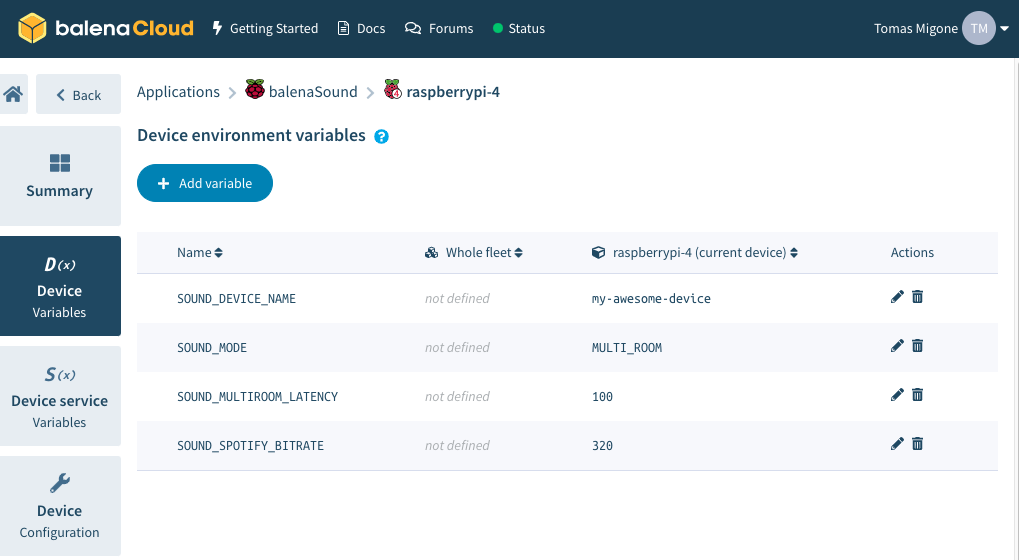
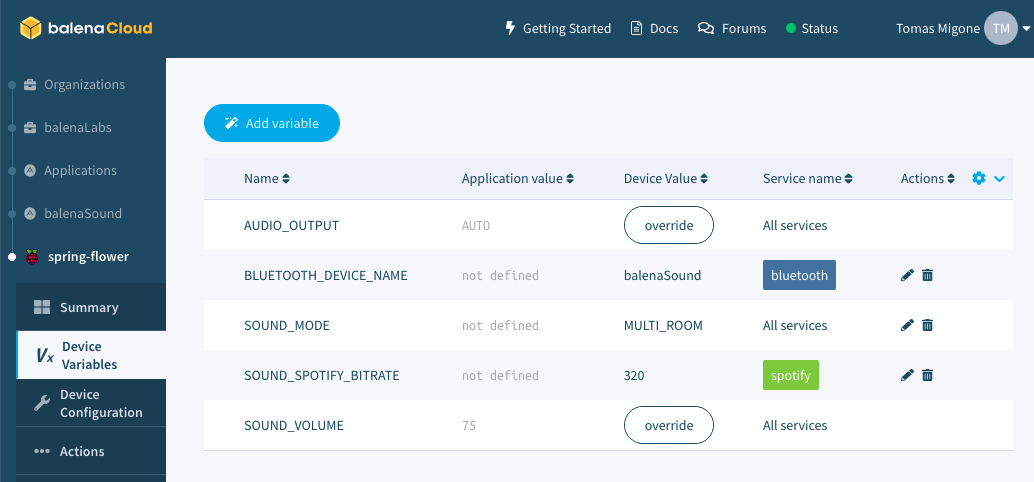
renamathon: rename application to fleet/app
Change-type: patch

diff --git a/ARCHITECTURE.md b/ARCHITECTURE.md
@@ -1,6 +1,6 @@
 # Architecture
 
-Community contributions have been a staple of this open source project since its inception. However, as balenaSound grew in features it also grew in terms of complexity. It's currently a multi-container application with four core services and as many plugin services. This documentation section aims to provide an overview of balenaSound's architecture, with the intention of lowering the barrier to entry for folks out there wanting to contribute. If you are interested in contributing and after reading this guide you still have questions please [reach out](../docs/support#contact-us) and we'll gladly help.
+Community contributions have been a staple of this open source project since its inception. However, as balenaSound grew in features it also grew in terms of complexity. It's currently a multi-container app with four core services and as many plugin services. This documentation section aims to provide an overview of balenaSound's architecture, with the intention of lowering the barrier to entry for folks out there wanting to contribute. If you are interested in contributing and after reading this guide you still have questions please [reach out](../docs/support#contact-us) and we'll gladly help.
 
 ## Overview
 
@@ -9,20 +9,21 @@ Community contributions have been a staple of this open source project since its
 balenaSound services can be divided in three groups:
 - Sound core: `sound-supervisor` and `audio`. 
 - Multiroom: `multiroom-server` and `multiroom-client`
-- Plugins: `spotify`, `airplay`, `bluetooth`, `upnp`
+- Plugins: `spotify`, `airplay`, `bluetooth`, `upnp`, etc.
 
 ### Sound core
 
 This is the heart of balenaSound as it contains the most important services: `sound-supervisor` and `audio`. 
 
 **audio**
-The `audio` block is a balena block that provides an easy way to work with audio applications in containerized environments such as balenaOS. You can read more about it [here](https://github.com/balenablocks/audio). In a nutshell, the `audio` block is the main "audio router". It connects to all audio sources and sinks and handles audio routing, which will change depending on the mode of operation (multi-room vs standalone), the output interface selected (onboard audio, HDMI, DAC, USB soundcard), etc. The `audio` block allows you to build complex audio applications such as balenaSound without having to deep dive into ALSA or PulseAudio configuration. One of the key features for balenaSound is that it allows us to define input and output audio layers and then do all the complex audio routing without knowing/caring about where the audio is being generated or where it should go to. The `audio routing` section belows covers this process in detail.
+The `audio` block is a [balena block](https://www.balena.io/blog/introducing-balenablocks-jumpstart-your-iot-app-development/) that provides an easy way to work with audio in containerized environments such as balenaOS. You can read more about it [here](https://github.com/balenablocks/audio). In a nutshell, the `audio` block is the main "audio router". It connects to all audio sources and sinks and handles audio routing, which will change depending on the mode of operation (multi-room vs standalone), the output interface selected (onboard audio, HDMI, DAC, USB soundcard), etc. The `audio` block allows you to build complex audio apps such as balenaSound without having to dive deep into ALSA or PulseAudio configuration. One of the key features for balenaSound is that it allows us to define input and output audio layers and then perform all the complex audio routing without knowing/caring about where the audio is being generated or where it should go to. The `audio routing` section belows covers this process in detail.
 
 
 **sound-supervisor**
 The `sound-supervisor`, as its name suggests, is the service that orchestrates all the others. It's not really involved in the audio routing but it does a few key things that enable the other services to be simpler. Here are some of the most important features of the `sound-supervisor`:
+
 - **Multi-room events**: through the use of the [cotejs](https://github.com/dashersw/cote) library and interfacing with the `audio` block, the `sound-supervisor` ensures that all devices on the same local network agree on which is the `master` device. To achieve this, `sound-supervisor` services on different devices exchange event messages constantly.
-- **API**: creates a REST API on port 80. The API allows other services to access the current balenaSound configuration, which allows us to update the configuration dynamically and have services react accordingly. As a general rule of thumb, if we are interested in a service's configuration being able to be dynamically updated, the service should rely on configuration reported by `sound-supervisor` and not on environment variables. At this moment, all of the services support this behaviour but their configuration is mostly static: you set it at startup via environment variables and that's it. However, there are *experimental* endpoints in the API to update configuration values and all of the services support it already. There's even a *secret* UI that allows for some configuration changes at runtime, it's located at `http://<DEVICE_IP>`.
+- **API**: creates a REST API on port 80. The API allows other services to access the current balenaSound configuration, which allows us to update the configuration dynamically and have services react accordingly. As a general rule of thumb, if we are interested in a service's configuration being able to be dynamically updated, the service should rely on configuration reported by `sound-supervisor` and not on environment variables. At this moment, all of the services support this behavior but their configuration is mostly static: you set it at startup via environment variables and that's it. However, there are *experimental* endpoints in the API to update configuration values and all of the services support it already. There's even a *secret* UI that allows for some configuration changes at runtime, it's located at `http://<DEVICE_IP>`.
 
 ### Multi-room
 
@@ -40,8 +41,9 @@ Plugins are the audio sources that generate the audio to be streamed/played (e.g
 
 ## Audio routing
 
-Audio routing is the most cruicial part of balenaSound, and it also changes significantly depending on what the current configuration is with the biggest change being the mode of operation (multi-room vs standalone). There are two services controlling the audio routing:
-- the `audio` block is the key one as it's the one actually routing audio, so we'll zoom into it in sections below.
+Audio routing is the most crucial part of balenaSound, and it also changes significantly depending on what the current configuration is, with the biggest change being the mode of operation (multi-room vs standalone). There are two services controlling audio routing:
+
+- the `audio` block is the key one as it's the one actually routing audio so we'll zoom into it in sections below.
 - `sound-supervisor` on the other hand, is responsible for changing the routing according to what the current mode is. It will modify how sinks are internally connected depending on the mode of operation.
 
 **Note**: audio routing relies mainly on routing PulseAudio sinks. [Here](https://gavv.github.io/articles/pulseaudio-under-the-hood/) is an awesome resource on PulseAudio in case you are not familiar with it.
@@ -65,13 +67,13 @@ Creation and configuration scripts for these virtual sinks are located at `core/
 ### Standalone
 ![](https://raw.githubusercontent.com/balenalabs/balena-sound/master/docs/images/arch-standalone.png)
 
-Standalone mode is easy to understand. You just pipe ` balena-sound.input` to `balena-sound.output` and that's it. Audio coming in from any plugin will find it's way to the selected output. If this was the only mode, we could simplify the setup and use a single sink. Having the two layers however is important for the next mode which is more complicated.
+Standalone mode is easy to understand. You just pipe ` balena-sound.input` to `balena-sound.output` and that's it. Audio coming in from any plugin will find it's way to the selected output. If this was the only mode, we could simplify the setup and use a single sink. Having the two layers however is important for the multiroom mode which is more complicated.
 
 
 ### Multiroom
 ![](https://raw.githubusercontent.com/balenalabs/balena-sound/master/docs/images/arch-multiroom.png)
 
-Multiroom feature relies on `snapcast` to broadcast the audio to multiple devices. Snapcast has two binaries working alonside, server and client.
+Multiroom feature relies on `snapcast` to broadcast the audio to multiple devices. Snapcast has two binaries working alongside: server and client.
 
 Snapcast server can receive audio from an ALSA stream, so we create an additional sink (`snapcast` sink) that routes audio from `balena-sound.input` and configure snapcast to grab the audio from the sink monitor. The server will then use TCP packets to broadcast audio to all clients that are connected to it, wether they run in the same device or others. Note that the audio is "exiting" the `audio` block and no longer under PulseAudio's control.
 
@@ -81,11 +83,11 @@ This setup allows us to decouple the multiroom feature from the `audio` block wh
 
 ## Plugins
 
-As described above, plugins are the services generating the audio to be streamed/played. Plugins are responsible for sending the audio into the `audio` block, particularily into `balena-sound.input` sink. There are two alternatives for how this can be acomplished. A detailed explanation can be found [here](https://github.com/balenablocks/audio#usage), in our case:
+As described above, plugins are the services generating the audio to be streamed/played. Plugins are responsible for sending the audio into the `audio` block, particularly into `balena-sound.input` sink. There are two alternatives for how this can be accomplished. A detailed explanation can be found [here](https://github.com/balenablocks/audio#usage), in our case:
 
 **PulseAudio backend**
 
-Most audio applications support using PulseAudio as an audio backend. This means the application was coded to allow sending audio directly to PulseAudio (and hence the `audio` block). This is usually configurable via a CLI option flag or configuration files. You should check your application's documentation and figure out if this is the case.
+Most audio applications support using PulseAudio as an audio backend. This means they were coded to allow sending audio directly to PulseAudio (and hence the `audio` block). This is usually configurable via a CLI option flag or configuration files. You should check your application's documentation and figure out if this is the case.
 
 If the application supports PulseAudio backend, the only configuration you need is to specify where the PulseAudio server can be located. This can be done by setting the `PULSE_SERVER` environment variable, we recommend doing it in the `Dockerfile`:
 

diff --git a/docs/03-customization.md b/docs/03-customization.md
@@ -1,23 +1,23 @@
 # Customization
 
-Some features of balenaSound can be configured by using environment variables. Depending on how you set them they will apply to all your devices, a specific device or a specific service. Regardless of what you want, they can be set using the balena dashboard:
+Some features of balenaSound can be configured by using variables. Depending on how you set them they will apply to all your devices, a specific device or a specific service. Regardless of what you want, they can be set using the balena dashboard:
 
-| Environment variable type | Scope | Instructions |
+| Variable type | Scope | Instructions |
 | ------ | ------ | ------ |
-| Fleet-wide environment variable | all devices, all services | navigate to dashboard -> your app -> Environment variables |
-| Fleet-wide service variable | all devices, specific service | navigate to dashboard -> your app -> Service variables |
-| Device environment variable | specific device, all services | navigate to dashboard -> your app -> your device -> Device variables |
-| Device service variable | specific device, specific service | navigate to dashboard -> your app -> your device -> Device service variables |
+| Fleet-wide variable | all devices, all services | navigate to dashboard -> your fleet -> `Variables` -> Select `All services` |
+| Fleet-wide service variable | all devices, specific service | navigate to dashboard -> your fleet -> `Variables` -> Select target service |
+| Device variable | specific device, all services | navigate to dashboard -> your fleet -> your device -> `Device variables` -> Select `All services` |
+| Device service variable | specific device, specific service | navigate to dashboard -> your fleet -> your device -> Select `All services` -> Select target service |
 
 ![Setting the device name](https://raw.githubusercontent.com/balenalabs/balena-sound/master/docs/images/env-vars.png)
 
-You can read more about environment variables [here](https://www.balena.io/docs/learn/manage/serv-vars/#fleet-environment-and-service-variables).
+You can read more about variables [here](https://www.balena.io/docs/learn/manage/serv-vars/#fleet-environment-and-service-variables).
 
 ## General
 
-The following environment variables apply to balenaSound in general, modifying its behavior across the board:
+The following variables apply to balenaSound in general, modifying its behavior across the board:
 
-| Environment variable | Description | Options | Default |
+| Variable | Description | Options | Default |
 | ------ | ------ | ------ | ------ |
 | SOUND_MODE | Select which mode of operation a device should use. For a detailed explanation see [here](../docs/usage#modes-of-operation).| `MULTI_ROOM`, `MULTI_ROOM_CLIENT`, `STANDALONE` | `MULTI_ROOM`, except for cases listed [here](../docs/device-support). |
 | SOUND_VOLUME | Output volume level at startup. | 0 - 100, integer value without the `%` symbol. | 75 |
@@ -32,18 +32,18 @@ The following environment variables apply to balenaSound in general, modifying i
 
 These options only have an effect on multi-room behavior:
 
-| Environment variable    | Description                                                                                                                                                | Options                                               | Default |
-| ---                     | ---                                                                                                                                                        | ---                                                   | ---     |
-| SOUND_MULTIROOM_MASTER  | Force multi-room to use the specified IP address as the multi-room `master` device. This can't be changed unless the variable is removed.                  | An IPv4 formatted IP address. Example: `192.168.1.10` | ---     |
-| SOUND_MULTIROOM_LATENCY | Set multi-room client latency. Usually used to compensate for latency that speaker hardware might introduce (some Hi-Fi systems add a noticeable latency). | Time in milliseconds. Example: `300`                  | ---     |
-| SOUND_MULTIROOM_POLL_INTERVAL | Set how often multi-room devices sync up across the fleet. | Time in seconds. Example: `120`                                                    | `60` |
-| SOUND_MULTIROOM_DISALLOW_UPDATES | Prevent a device to update it's multi-room `master` based on fleet activity. | Boolean. `true` / `false`                                                    | `false` |
+| Variable | Description | Options | Default |
+| --- | --- | --- | --- |
+| SOUND_MULTIROOM_MASTER  | Force multi-room to use the specified IP address as the multi-room `master` device. This can't be changed unless the variable is removed. | An IPv4 formatted IP address. Example: `192.168.1.10` | --- |
+| SOUND_MULTIROOM_LATENCY | Set multi-room client latency. Usually used to compensate for latency that speaker hardware might introduce (some Hi-Fi systems add a noticeable latency). | Time in milliseconds. Example: `300` | --- |
+| SOUND_MULTIROOM_POLL_INTERVAL | Set how often multi-room devices sync up across the fleet. | Time in seconds. Example: `120` | `60` |
+| SOUND_MULTIROOM_DISALLOW_UPDATES | Prevent a device to update it's multi-room `master` based on fleet activity. | Boolean. `true` / `false` | `false` |
 
 ## Plugins
 
-The following environment variables control various aspects of each plugin behavior:
+The following variables control various aspects of each plugin behavior:
 
-| Environment variable | Description | Options | Defaults |
+| Variable | Description | Options | Defaults |
 | --- | --- | --- | --- |
 | SOUND_DISABLE_< PLUGIN > where `<PLUGIN>` is the plugin name. See description. | Disable the selected plugin. Useful when you don't want to use a particular plugin. There is one variable per plugin: <br>- `SOUND_DISABLE_SPOTIFY`<br>- `SOUND_DISABLE_AIRPLAY`<br>- `SOUND_DISABLE_BLUETOOTH` | Plugin will be disabled if the variable exists regardless of its value. | --- |
 | SOUND_ENABLE_SOUNDCARD_INPUT | If your soundcard has inputs you can enable soundcard input by setting this variable. Sound coming in through the audio card will be treated as a new plugin/audio source.<br><br>This feature is still experimental! | Plugin will be enabled if the variable exists regardless of its value. | --- |

diff --git a/docs/01-getting-started.md b/docs/01-getting-started.md
@@ -1,6 +1,6 @@
 # Getting started
 
-Getting started with balenaSound is as simple as deploying it to a [balenaCloud](https://balena.io/cloud) application; no additional configuration is required (unless you're using a DAC HAT).
+Getting started with balenaSound is as simple as deploying it to a [balenaCloud](https://balena.io/cloud) fleet; no additional configuration is required (unless you're using a DAC HAT).
 We've outlined the installation steps below. If you want a step-by-step tutorial on how to get balenaSound up and running, feel free to check these blog posts:
 
 - [Turn your old speakers or Hi-Fi into Bluetooth, Airplay and Spotify receivers with a Raspberry Pi and this step-by-step guide](https://www.balena.io/blog/turn-your-old-speakers-or-hi-fi-into-bluetooth-receivers-using-only-a-raspberry-pi/)
@@ -24,11 +24,11 @@ We've outlined the installation steps below. If you want a step-by-step tutorial
 
 ## One-click deploy
 
-One-click deploy is the easiest way to get started with balenaSound as it allows you to deploy and configure the application with a single click and without the need of installing additional tools. Check out the `CLI deploy` instructions below if you are interested in an advanced alternative that enables you to achieve more complex deployments.
+One-click deploy is the easiest way to get started with balenaSound as it allows you to deploy and configure the app with a single click and without the need of installing additional tools. Check out the `CLI deploy` instructions below if you are interested in an advanced alternative that enables you to achieve more complex deployments.
 
 ### Deploy with balena
 
-Click this button to go straight to application creation, where balenaSound will be pre-loaded to your application:
+Click this button to go straight to balenaCloud fleet creation, where balenaSound app will be pre-loaded:
 
 [![balena deploy button](https://balena.io/deploy.svg)](https://dashboard.balena-cloud.com/deploy?repoUrl=https://github.com/balenalabs/balena-sound&defaultDeviceType=raspberry-pi)
 
@@ -36,37 +36,37 @@ Click this button to go straight to application creation, where balenaSound will
 
 ![sdcard](https://raw.githubusercontent.com/balenalabs/balena-sound/master/docs/images/sdcard.gif)
 
-Once your application has been created you'll need to add a device to it:
+Once your fleet has been created you'll need to add a device to it:
 
-1. Add a device to the application by clicking the `add device` button
+1. Add a device to the fleet by clicking the `add device` button
 2. Download the OS and flash it to your SD card with [balenaEtcher](https://balena.io/etcher)
 3. Power up your device and check it's online in the dashboard!
 
-The balenaSound application will start downloading as soon as your device appears in the dashboard.
+The balenaSound app will start downloading as soon as your device appears in the dashboard.
 
 ## CLI deploy
 
-This is the traditional and more advanced approach for deploying applications to balena powered devices. Installing and setting up the balena CLI is definitely more involved than using the `Deploy with balena` button, but it allows for more flexibility and customization when choosing what and when to deploy.
+This is the traditional and more advanced approach for deploying apps to balena powered devices. Installing and setting up the balena CLI is definitely more involved than using the `Deploy with balena` button, but it allows for more flexibility and customization when choosing what and when to deploy.
 
-For example, if you don't plan on using the Spotify integration, you can edit the `docker-compose.yml` file and remove the Spotify service before deploying the application.
+For example, if you don't plan on using the Spotify integration, you can edit the `docker-compose.yml` file and remove the Spotify service before deploying the app.
 
 ### Provision your device
 
 1. Sign up for or login to the [balenaCloud dashboard](https://dashboard.balena-cloud.com)
-2. Create an application, selecting the correct device type. If you are using a Raspberry Pi (any model) we recommend setting the type as `Raspberry Pi (v1 / Zero / Zero W)` as your application will then be compatible with all Raspberry Pi versions.
-3. Add a device to the application, enabling you to download the OS
+2. Create a fleet, selecting the correct device type. If you are using a Raspberry Pi (any model) we recommend setting the type as `Raspberry Pi (v1 / Zero / Zero W)` as your fleet will then be compatible with all Raspberry Pi versions.
+3. Add a device to the fleet, enabling you to download the OS
 4. Flash the downloaded OS to your SD card with [balenaEtcher](https://balena.io/etcher)
 5. Power up your device and check it's online in the dashboard
 
-### Deploy the application
+### Deploy the app
 
 - Install the [balena CLI tools](https://github.com/balena-io/balena-cli/blob/master/INSTALL.md)
 - Login with `balena login`
-- Download this [project](https://github.com/balenalabs/balena-sound/) and from the project directory run `balena push <appName>` where `<appName>` is the name you gave your balenaCloud application in the first step.
+- Download this [app](https://github.com/balenalabs/balena-sound/) and from the project directory run `balena push <fleetName>` where `<fleetName>` is the name you gave your balenaCloud fleet in the first step.
 
 ## Having trouble?
 
-If you are running into issues getting your balenaSound application running, please try the following:
+If you are running into issues getting your balenaSound app running, please try the following:
 1. Check the [support and troubleshooting guide](../support) for common issues and how to resolve them.
 2. Post in the [balenaSound forum](https://forums.balena.io/c/balenalabs/balenasound/85) for help from our growing community.
 3. Create an issue on the [balenaSound GitHub project](https://github.com/balenalabs/balena-sound/issues/new/choose) if you find your issue may be a problem with balenaSound.

diff --git a/docs/02-usage.md b/docs/02-usage.md
@@ -1,8 +1,8 @@
 # Usage
 
-After your device finishes downloading the application, you should be ready to go!
+After your device finishes downloading the app, you should be ready to go!
 
-Before starting, make sure to connect the audio output of your device to your Hi-Fi or speaker system. Remember that we support multiple [audio interfaces](../docs/audio-interfaces). This is helpful if you're interested in improving the audio quality of your setup-- be sure to check it out.
+Before starting, make sure to connect the audio output of your device to your Hi-Fi or speaker system. Remember that we support multiple [audio interfaces](../docs/audio-interfaces). This is helpful if you're interested in improving the audio quality of your setup -- be sure to check it out!
 
 To connect to your balenaSound device:
 
@@ -36,20 +36,20 @@ When in multi-room mode devices can take one of two roles:
 * `master`: the device acting as the audio source
 * `client`: any number of devices playing back the audio being sent over by the `master`
 
-Designing a `master` device is easy and requires no configuration. Whenever you start streaming to any device in multi-room mode, it will autoconfigure itself to be the `master` device and will broadcast a message to all other devices within your local network to get them in sync. Note that it can take a few seconds for the system to autoconfigure the first time you stream.
+Designing a `master` device is easy and requires no configuration. Whenever you start streaming to any device in multi-room mode, it will auto-configure itself to be the `master` device and will broadcast a message to all other devices within your local network to get them in sync. Note that it can take a few seconds for the system to auto-configure the first time you stream.
 You can always change the `master` by streaming to a different device.
 
-It's a good idea to use the most powerful device on your fleet as the designated `master` as it does take up more resources. For example, if your setup consists of a Raspberry Pi 4 and a couple of Raspberry Pi 2, then using the Pi 4 as the `master` is the better option.
+It's a good idea to use the most powerful device on your fleet as the designated `master` as it does take up more resources. For example, if your setup consists of a Raspberry Pi 4 and a couple of Raspberry Pi 2, then using the Pi 4 as the `master` is the superior option.
 
 ### Multi-room client mode
 
-When a device is in multi-room client mode it can only be used as a multi-room `client`. The only audio the device will play is audio coming from a `master` device, so you'll need at least another device in your application.
+When a device is in multi-room client mode it can only be used as a multi-room `client`. The only audio the device will play is audio coming from a `master` device, so you'll need at least another device in your fleet.
 
 This mode is great for performance constrained devices as plugin services (Spotify, AirPlay, etc) won't be running and consuming CPU cycles. It's also a great choice if you usually stream to the same `master` device and don't want to have every device show up when pairing bluetooth for example.
 
 ### Standalone
 
-Standalone is the original balenaSound mode (pre version 2.0). In this mode your device won't run any of the multi-room services, it will run independently and won't be aware of other devices in your network/application.
+Standalone is the original balenaSound mode (pre version 2.0). In this mode your device won't run any of the multi-room services, it will run independently and won't be aware of other devices in your network.
 
 Use this mode when you have only one device in your fleet, or if you want to have multiple independent devices.
 

diff --git a/CONTRIBUTING.md b/CONTRIBUTING.md
@@ -7,7 +7,7 @@ balenaSound was created as a [hack friday](https://www.balena.io/blog/hack-frida
 
 Make sure you checkout our [architecture][../contributing/architecture] guide, which aims to explain how all pieces fit together. It's a good starting point for understanding how we designed and built balenaSound. 
 
-Another way to improve how you use and contribute to balenaSound is to take our [masterclasses](https://www.balena.io/docs/learn/more/masterclasses/overview/). Each lesson is a self-contained, deep walkthrough on core skills to be successful with your next edge project. Check them out at our [docs](https://www.balena.io/docs/learn/more/masterclasses/overview/).
+Another way to improve how you use and contribute to balenaSound is to take our [masterclasses](https://www.balena.io/docs/learn/more/masterclasses/overview/). Each lesson is a self-contained, deep walk-through on core skills to be successful with your next edge project. Check them out at our [docs](https://www.balena.io/docs/learn/more/masterclasses/overview/).
 
 
 ## Commit guidelines
@@ -37,11 +37,11 @@ Each commit message should consist of a header a body and a footer, structured i
 
 Note that:
 - Blank lines are required to separate header from body and body from footer. You don't need to add two blank lines if you don't add a body.
-- `scope`: If your commit touches a well defined component/part/service please addthe scope tag to clarify. Some examples: `docs`, `airplay`, `multi-room`.
+- `scope`: If your commit touches a well defined component/part/service please add the scope tag to clarify. Some examples: `docs`, `airplay`, `multi-room`.
 - `subject`: The subject should contain a short description of the change. Use the imperative, present tense.
 - `body`: A detailed description of changes being made and reasoning if necessary. This may contain several paragraphs.
 - `Connects-to`: If your commit fixes or is connected to an existing issue, link it by adding this tag with `#issue-number`. Example: `Connects-to: #123`
-- `Change-type`: At least one of your commits on a PR needs to have this tag. You have the flexibility, and it's good practise, to use this tag in as many commits as you see fit; in the end, the resulting change type for the scope of the PR will be folded down to the biggest one as marked in the commits (`major>minor>patch`). Our version numbering adheres to [Semantic Versioning](http://semver.org/).
+- `Change-type`: At least one of your commits on a PR needs to have this tag. You have the flexibility, and it's good practice, to use this tag in as many commits as you see fit; in the end, the resulting change type for the scope of the PR will be folded down to the biggest one as marked in the commits (`major>minor>patch`). Our version numbering adheres to [Semantic Versioning](http://semver.org/).
 - `Signed-off-by`: Sign your commits by providing your full name and email address in the format: `Name Surname <email@something.com>`. *This is an optional tag.*
 
 

diff --git a/docs/05-audio-interfaces.md b/docs/05-audio-interfaces.md
@@ -22,7 +22,7 @@ balenaSound supports a wide variety of DACs, but in an ever-growing market, chan
 1) the required kernel driver must be available in balenaOS 
 2) adequate testing must be performed with balenaSound
 
-Latest versions of balenaOS already ship with drivers for most, if not all, of the DACs available. The testing story, however, is different. It's not possible for us to test all of them individually as it would take an incredible amount of resources. For this reason, we rely on community contributions to help catalogue existing DACs into three categories:
+Latest versions of balenaOS already ships with drivers for most, if not all, of the DACs available. The testing story, however, is different. It's not possible for us to test all of them individually as it would take an incredible amount of resources. For this reason, we rely on community contributions to help catalogue existing DACs into three categories:
 
 - [Supported DACs](#Supported-DACs): battle-tested, known to work with balenaSound.
 - [Untested DACs](#Untested-DACs): DACs whose drivers are included in balenaOS but haven't been tested with balenaSound (most likely because no balena team member has one). 
@@ -37,13 +37,13 @@ To get a DAC board to work with balenaSound you will need to enable its correspo
 
 In the balenaCloud dashboard:
 
-* Click on the specific device within the application and select `Device configuration` in the left-side menu.
+* Click on the specific device within your fleet and select `Configuration` in the left-side menu.
 * Add an additional custom configuration variable called `BALENA_HOST_CONFIG_dtoverlay`. The value of this will depend on your DAC board (see tables below in each DAC category subsection).
-* Cycle the power by unplugging your pi.
+* Cycle the power by unplugging your device.
 
 ![DAC Configuration](https://raw.githubusercontent.com/balenalabs/balena-sound/master/docs/images/dac-vars.png)
 
-If you're using multiple devices with multiple DACs for multi-room audio, you'll want to do this process per unique device that is using a DAC. Do not set this variable fleet-wide as it will affect every device within your application.
+If you're using multiple devices with multiple DACs for multi-room audio, you'll want to do this process per unique device that is using a DAC. Do not set this variable fleet-wide as it will affect every device within your fleet.
 
 
 ### Supported DACs

diff --git a/docs/04-plugins.md b/docs/04-plugins.md
@@ -13,7 +13,7 @@ The following plugins ship with balenaSound out of the box:
 - AirPlay
 - Soundcard input (Requires setting `SOUND_ENABLE_SOUNDCARD_INPUT`, see [details](../docs/customization#plugins))
 
-Default plugins can be disabled at runtime via environment variables. For more details see [here](../docs/customization#plugins).
+Default plugins can be disabled at runtime via variables. For more details see [here](../docs/customization#plugins).
 
 ## Installable
 
@@ -23,7 +23,7 @@ The following plugins are available to be added to your balenaSound installation
 - (Work in progress) Tidal Connect: See [PR #399](https://github.com/balenalabs/balena-sound/pull/399)
 - (Work in progress) Roon Bridge: See [PR #388](https://github.com/balenalabs/balena-sound/pull/388)
 
-Installing these plugins is a more involved process than just deploying the off the shelf version of balenaSound. You'll need to edit the contents of the `docker-compose.yml` file before deploying the application. This means that you won't be able to deploy using the "Deploy with balena" button; you either need to use the [CLI to deploy](https://sound.balenalabs.io/docs/getting-started#cli-deploy) or use "Deploy with balena" with a forked version of the project. If you don't feel comfortable performing these steps or need some help along the way hit us up at our [forums](https://forums.balena.io) and we'll gladly help you out.
+Installing these plugins is a more involved process than just deploying the off the shelf version of balenaSound. You'll need to edit the contents of the `docker-compose.yml` file before deploying the app. This means that you won't be able to deploy using the "Deploy with balena" button; you either need to use the [CLI to deploy](https://sound.balenalabs.io/docs/getting-started#cli-deploy) or use "Deploy with balena" with your own forked version of the project. If you don't feel comfortable performing these steps or need some help along the way hit us up at our [forums](https://forums.balena.io) and we'll gladly help you out.
 
 ### UPnP
 

diff --git a/FAQ.md b/FAQ.md
@@ -6,7 +6,7 @@ Yes! balenaSound requires you to sign up for a free [balenaCloud](https://dashbo
 free and full-featured.
 
 ## Privacy: is balenaSound secure? 
-balenaSound does not not depend on any type of cloud service to deliver a great experience. Other than that, your device will be running balenaOS which does communicate with balenaCloud to get application updates. This can be disabled however and won't affect your experience. Both [balenaSound](https://github.com/balenalabs/balena-sound/) and [balenaOS](https://github.com/balena-os) are open source projects, so feel free to check the source code if you want to know more about how they work!
+balenaSound does not not depend on any type of cloud service to deliver a great experience. Other than that, your device will be running balenaOS which does communicate with balenaCloud to get app release updates. This can be disabled however and won't affect your experience. Both [balenaSound](https://github.com/balenalabs/balena-sound/) and [balenaOS](https://github.com/balena-os) are open source projects, so feel free to check the source code if you want to know more about how they work!
 
 ## Does balenaSound need internet access?
 You don't need an internet connection to use balenaSound as speakers (assuming all the apps are downloaded to the devices, set up, and updated), but you need to have music sources on the same shared network or bluetooth-connected devices within range. Accessing apps like Spotify as a music source requires an internet connection.

diff --git a/README.md b/README.md
@@ -10,9 +10,11 @@
 
 ## Setup and configuration
 
-Running this project is as simple as deploying it to a balenaCloud application. You can do it in just one click by using the button below:
+Running this app is as simple as deploying it to a balenaCloud fleet. You can do it in just one click by using the button below:
 
 [![deploy button](https://balena.io/deploy.svg)](https://dashboard.balena-cloud.com/deploy?repoUrl=https://github.com/balenalabs/balena-sound&defaultDeviceType=raspberry-pi)
+
+If you don't want to create a balenaCloud account you can deploy the app directly from [balenaHub](https://hub.balena.io/balenalabs/balenasound).
 
 ## Documentation
 
